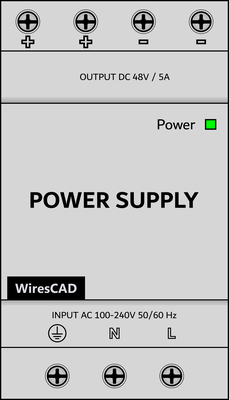
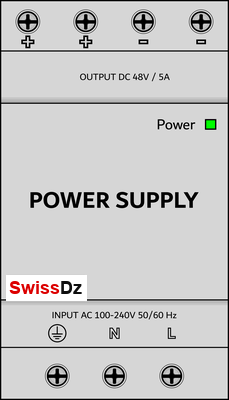
PanelWire: SwissDz sur alimentations/transformateurs (lot Alimentation, panel43).
Remplace le badge WiresCAD par une bande blanche + texte SwissDz (sans croix).

Changed region(s): [[0.0, 0.69, 0.3974, 0.75]]

diff --git a/ecole-electricite.html b/ecole-electricite.html
@@ -87,7 +87,7 @@
       var LANG_STORAGE = "electrodz-site-lang";
       var UNLOCK_KEY = "electrodz-ecole-unlocked";
       var ACCESS_CODE = "athmano";
-      var PANEL_SRC = "swissdz-panel/index.html?v=panel42&ecole=1";
+      var PANEL_SRC = "swissdz-panel/index.html?v=panel43&ecole=1";
 
       var T = {
         fr: {
